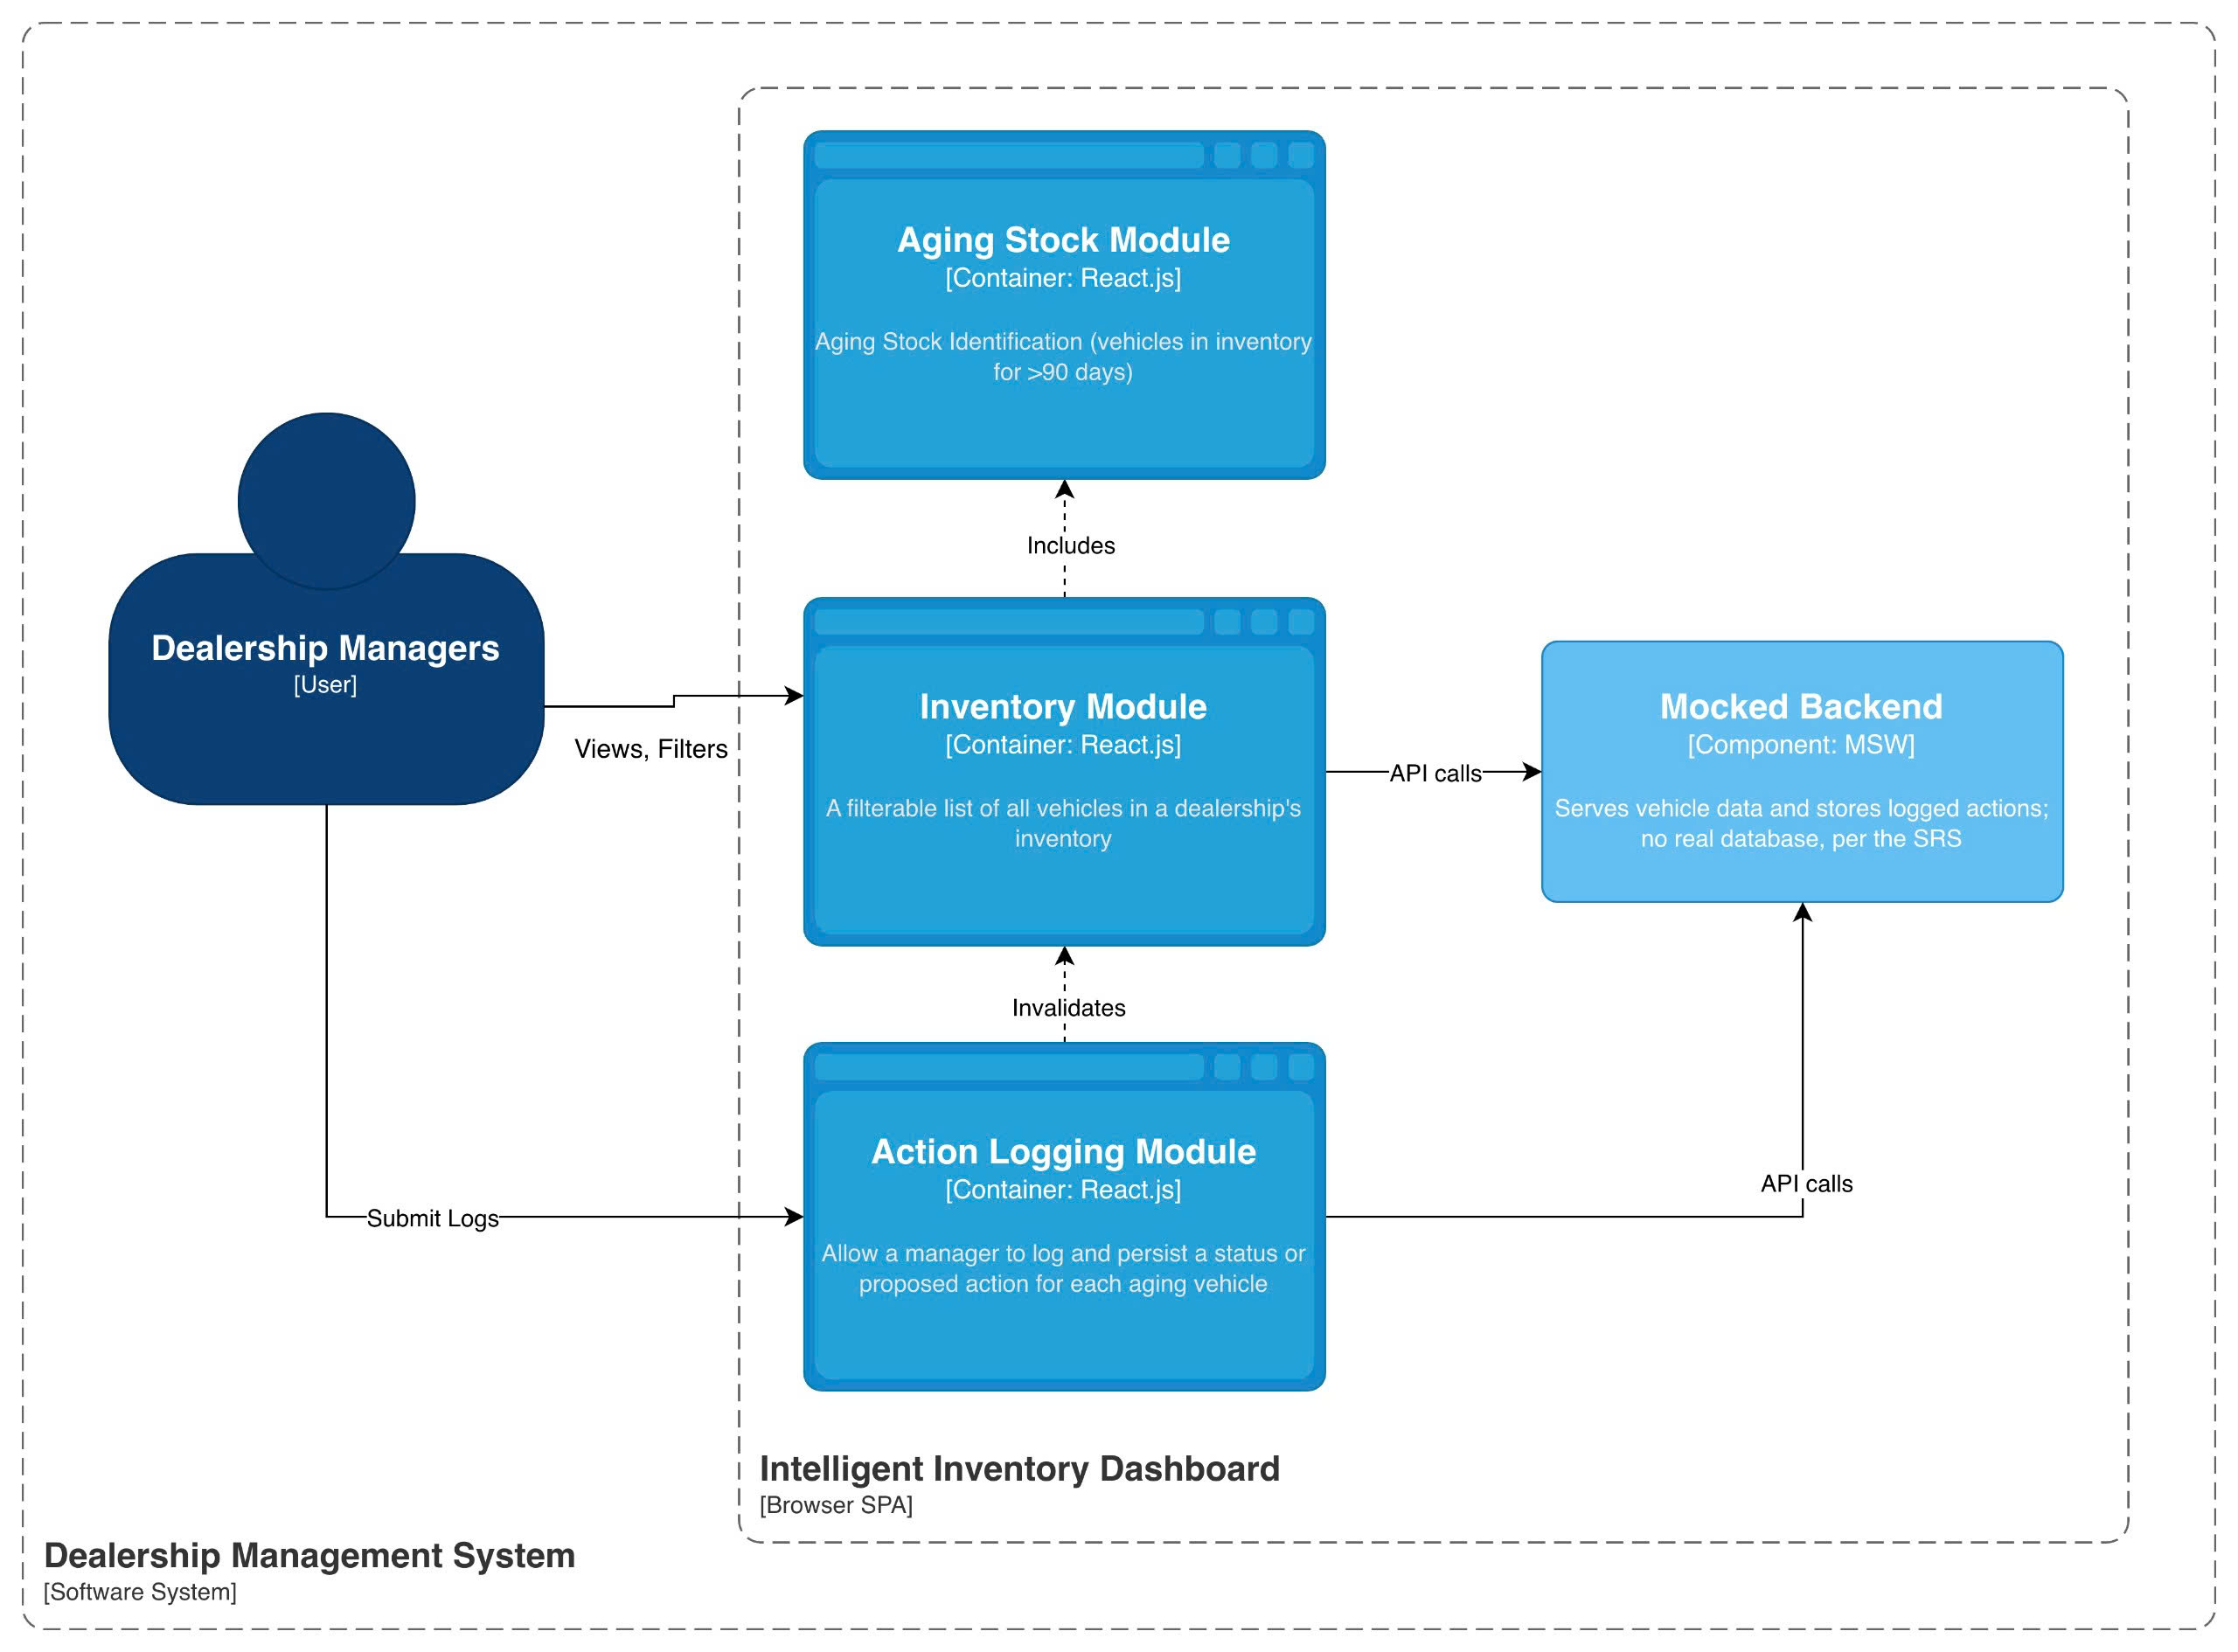
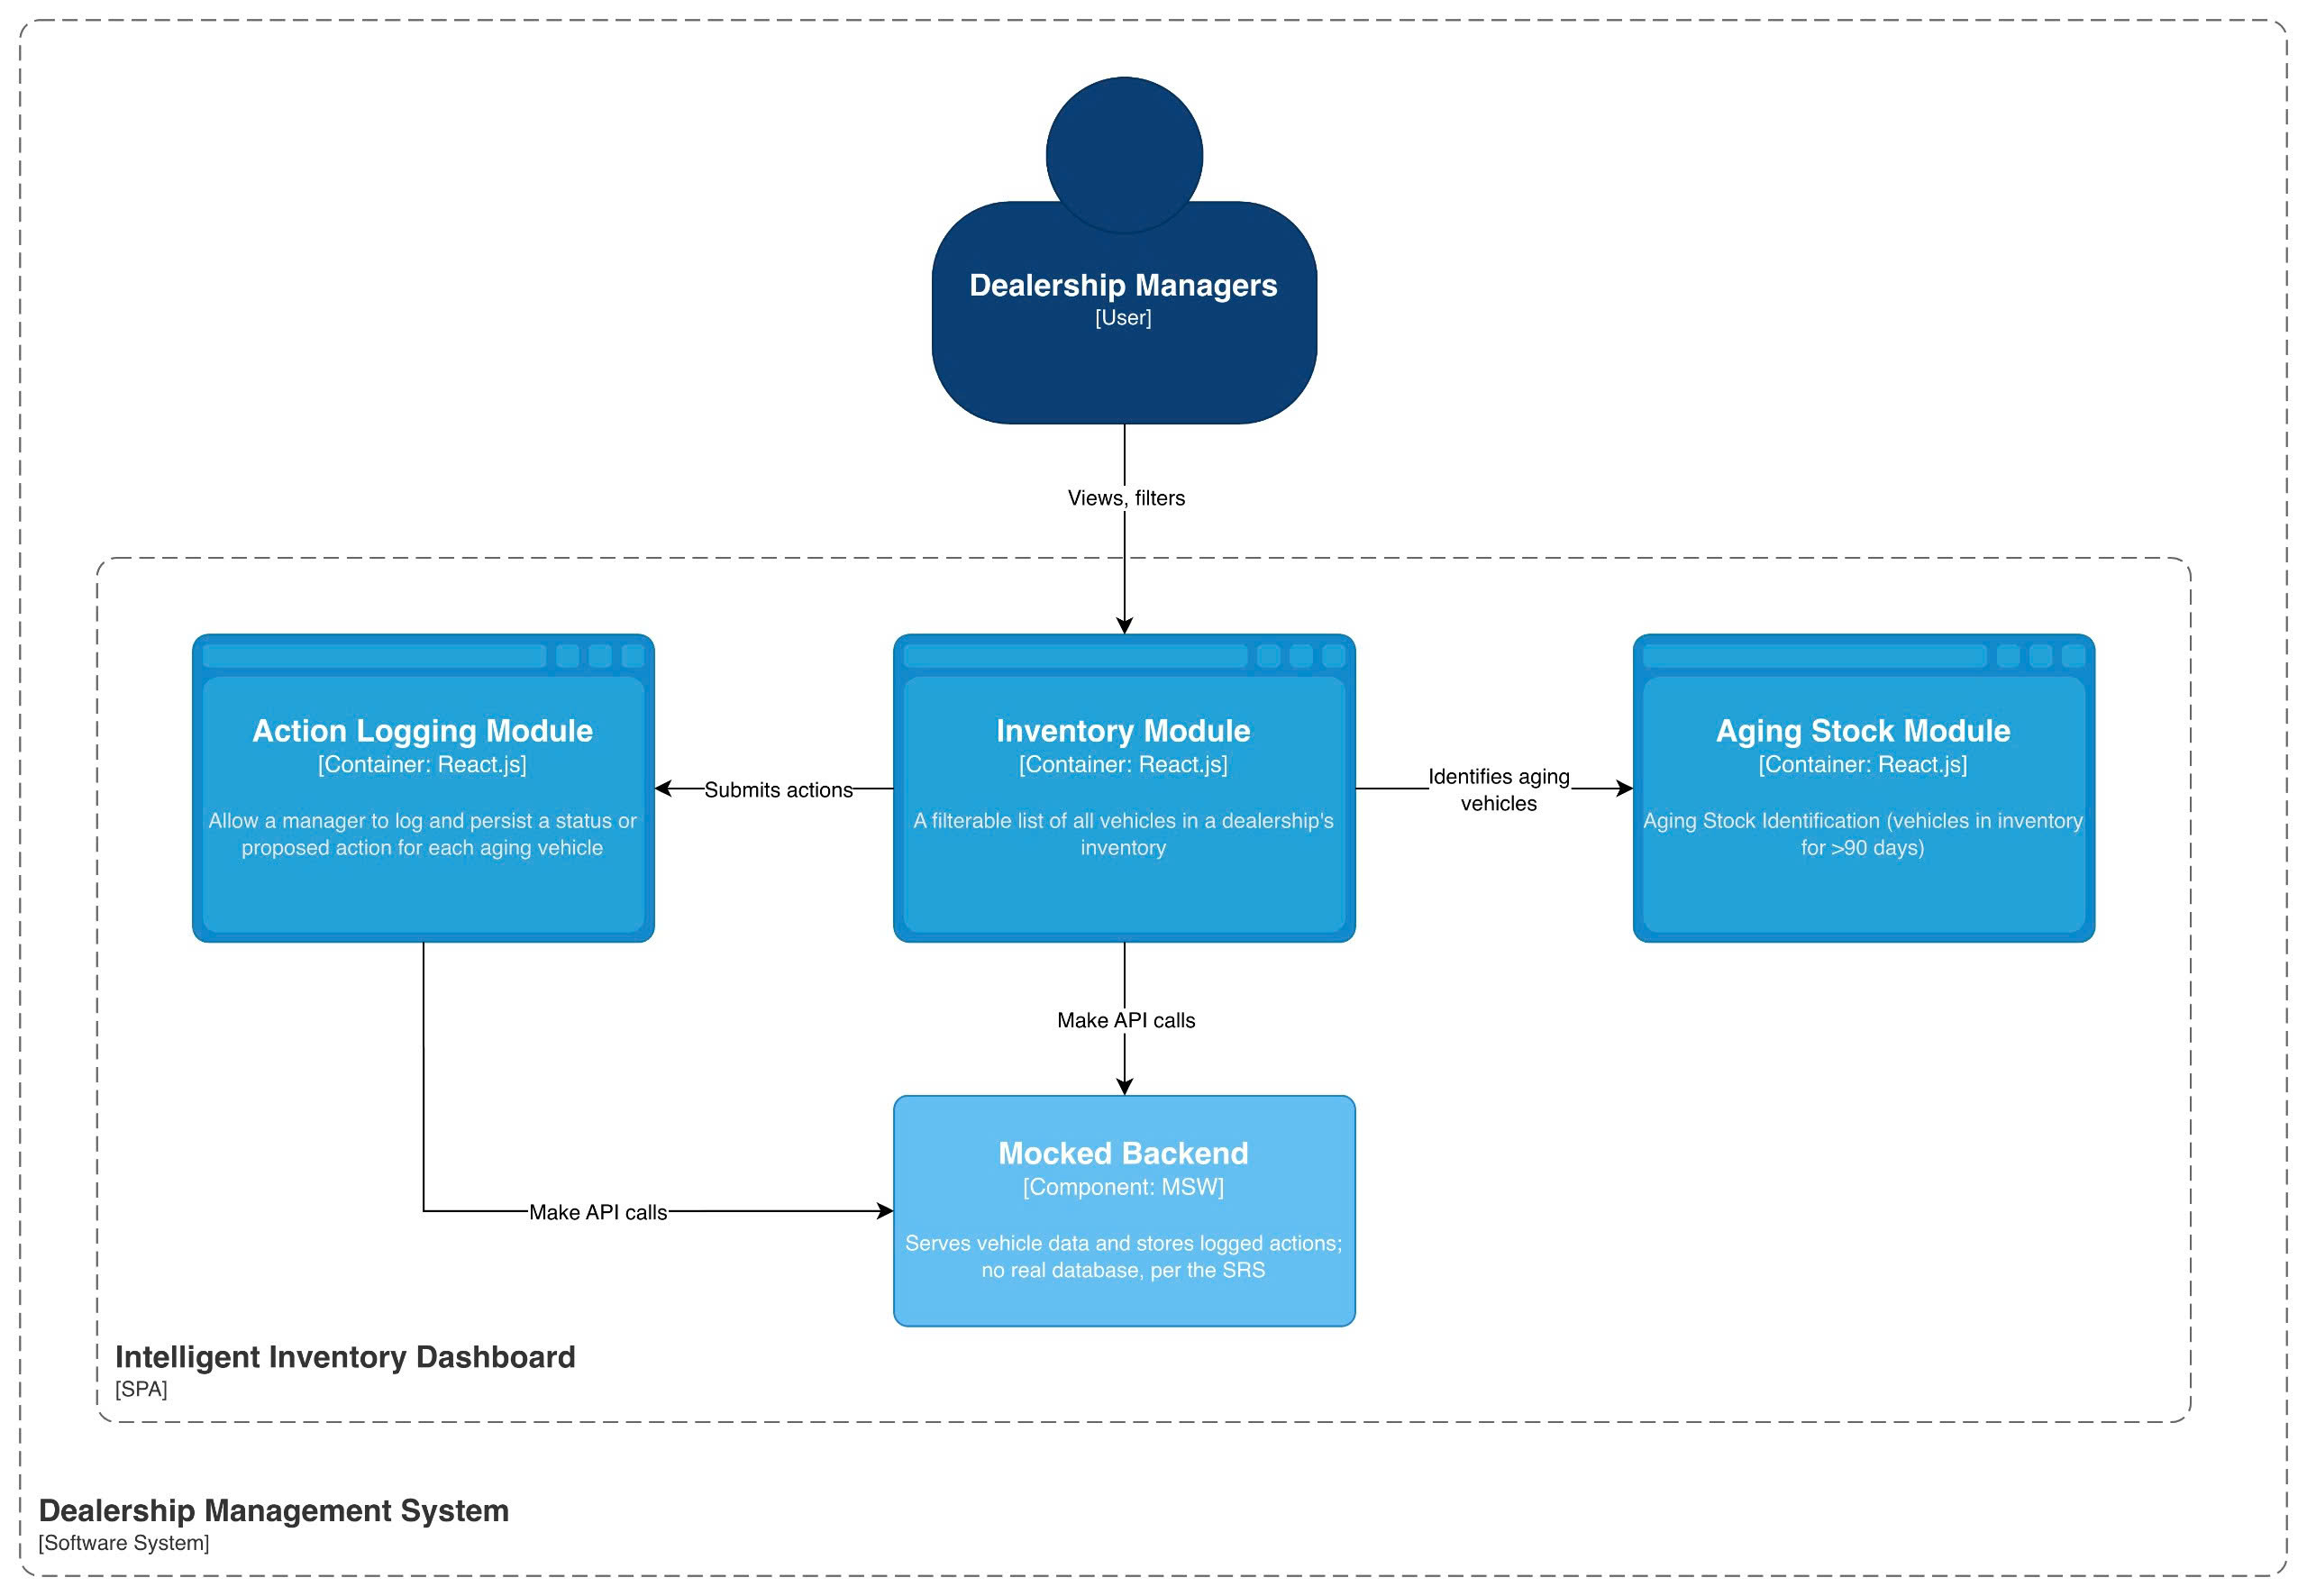
docs(STORY_20): plain-English wording in §4 sequence diagrams
Replaced HTTP-verb/query-string labels (GET /vehicles?page=1&pageSize=20,
POST /vehicles/:id/actions, etc.) across §4.1-4.3 with plain descriptions
of what's happening (Fetch vehicle list, Send the submit form, ...) — more
readable for a non-technical stakeholder without losing the flow. Also
updates the exported architecture diagram image to match.

diff --git a/SDD.md b/SDD.md
@@ -82,13 +82,13 @@ sequenceDiagram
     participant Mock as Mocked Backend
 
     Manager->>IM: Open dashboard
-    IM->>Mock: GET /vehicles?page=1&pageSize=20
-    Mock-->>IM: Page of vehicles, aging count
-    IM->>ASM: Render aging badges + count
-    ASM-->>IM: Badge / count banner
+    IM->>Mock: Fetch vehicle list
+    Mock-->>IM: List of vehicles
+    IM->>ASM: Identify aging vehicles
+    ASM-->>IM: Vehicles with "Aging Stock" badges
 
     Manager->>IM: Apply filter/pagination/sort
-    IM->>Mock: GET /vehicles?filter&page&sort
+    IM->>Mock: Refetch vehicle list with filters
     Mock-->>IM: Filtered/sorted/paged result
 ```
 
@@ -101,9 +101,9 @@ sequenceDiagram
     participant Mock as Mocked Backend
 
     Manager->>ALM: Open "Log action" on an aging vehicle
-    ALM->>Mock: GET /vehicles/:id/actions
-    Mock-->>ALM: Full history, most recent first
-    ALM-->>Manager: Render history alongside the submission form
+    ALM->>Mock: Fetch action history
+    Mock-->>ALM: Full history
+    ALM-->>Manager: Show history alongside the submission form
 ```
 
 ### 4.3 Log Aging-Vehicle Action
@@ -115,13 +115,13 @@ sequenceDiagram
     participant IM as Inventory Module
     participant Mock as Mocked Backend
 
-    Manager->>ALM: Submit status/action for aging vehicle
-    ALM->>Mock: POST /vehicles/:id/actions
-    Mock-->>ALM: Confirmation, new action record
+    Manager->>ALM: Submit action/decision for the aging vehicle
+    ALM->>Mock: Send the submit form
+    Mock-->>ALM: New action record
     ALM->>IM: Invalidate cached vehicle list
-    IM->>Mock: Re-request current page
-    Mock-->>IM: Refreshed page (updated status)
-    IM-->>Manager: Reflect updated status (no manual refresh)
+    IM->>Mock: Refetch vehicle list 
+    Mock-->>IM: New list result
+    IM-->>Manager: Reflect updated status
 ```
 
 ---